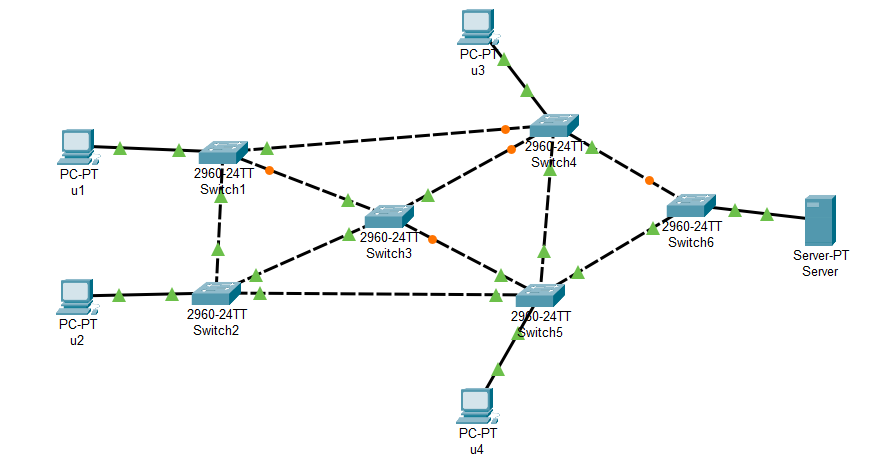
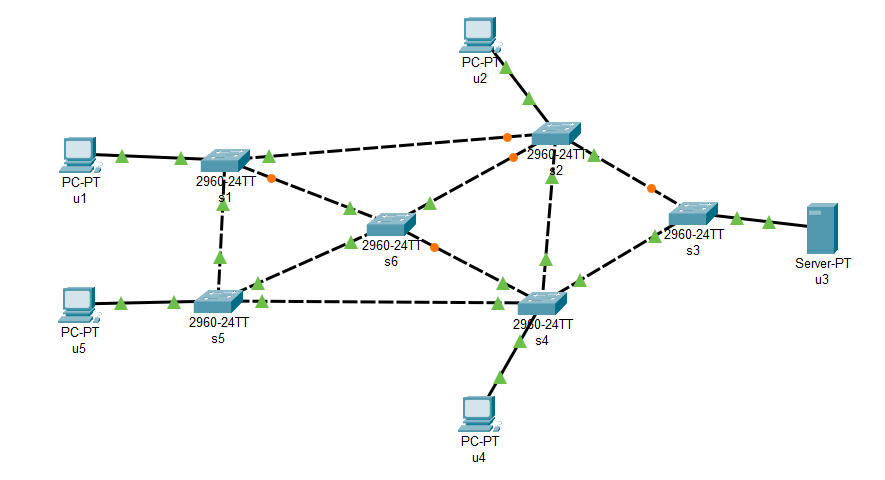
统一拓扑编号，增加链路带宽及时延

diff --git a/classic/create_topo.py b/classic/create_topo.py
@@ -9,37 +9,37 @@ class MyTopo(Topo):
         Topo.__init__(self)
 
         # Add hosts
-        u0 = self.addHost('u1', ip="172.18.0.1/24")
-        u1 = self.addHost('u2', ip="172.18.1.1/24")
-        u2 = self.addHost('u3', ip="172.18.2.1/24")
-        u3 = self.addHost('u4', ip="172.18.3.1/24")
-        u4 = self.addHost('u5', ip="172.18.4.1/24")
+        u1 = self.addHost('u1', ip="172.18.0.1/24")
+        u2 = self.addHost('u2', ip="172.18.1.1/24")
+        u3 = self.addHost('u3', ip="172.18.2.1/24")
+        u4 = self.addHost('u4', ip="172.18.3.1/24")
+        u5 = self.addHost('u5', ip="172.18.4.1/24")
 
         # Add switches
-        s0 = self.addSwitch('s1')
-        s1 = self.addSwitch('s2')
-        s2 = self.addSwitch('s3')
-        s3 = self.addSwitch('s4')
-        s4 = self.addSwitch('s5')
-        s5 = self.addSwitch('s6')
+        s1 = self.addSwitch('s1')
+        s2 = self.addSwitch('s2')
+        s3 = self.addSwitch('s3')
+        s4 = self.addSwitch('s4')
+        s5 = self.addSwitch('s5')
+        s6 = self.addSwitch('s6')
 
         # Add links
-        self.addLink(s0, u0)
         self.addLink(s1, u1)
         self.addLink(s2, u2)
         self.addLink(s3, u3)
         self.addLink(s4, u4)
+        self.addLink(s5, u5)
 
-        self.addLink(s0, s1)
-        self.addLink(s0, s5)
-        self.addLink(s0, s4)
-        self.addLink(s1, s2)
-        self.addLink(s1, s3)
-        self.addLink(s1, s5)
-        self.addLink(s2, s3)
-        self.addLink(s3, s5)
-        self.addLink(s3, s4)
-        self.addLink(s4, s5)
+        self.addLink(s1, s2, bw=50, delay='15ms', loss=0.5)
+        self.addLink(s1, s6, bw=75, delay='10ms', loss=0.5)
+        self.addLink(s1, s5, bw=50, delay='15ms', loss=0.5)
+        self.addLink(s2, s3, bw=75, delay='10ms', loss=0.5)
+        self.addLink(s2, s4, bw=50, delay='15ms', loss=0.5)
+        self.addLink(s2, s6, bw=75, delay='10ms', loss=0.5)
+        self.addLink(s3, s4, bw=75, delay='10ms', loss=0.5)
+        self.addLink(s4, s6, bw=75, delay='10ms', loss=0.5)
+        self.addLink(s4, s5, bw=50, delay='15ms', loss=0.5)
+        self.addLink(s5, s6, bw=75, delay='10ms', loss=0.5)
 
 
 topos = {'mytopo':MyTopo}
